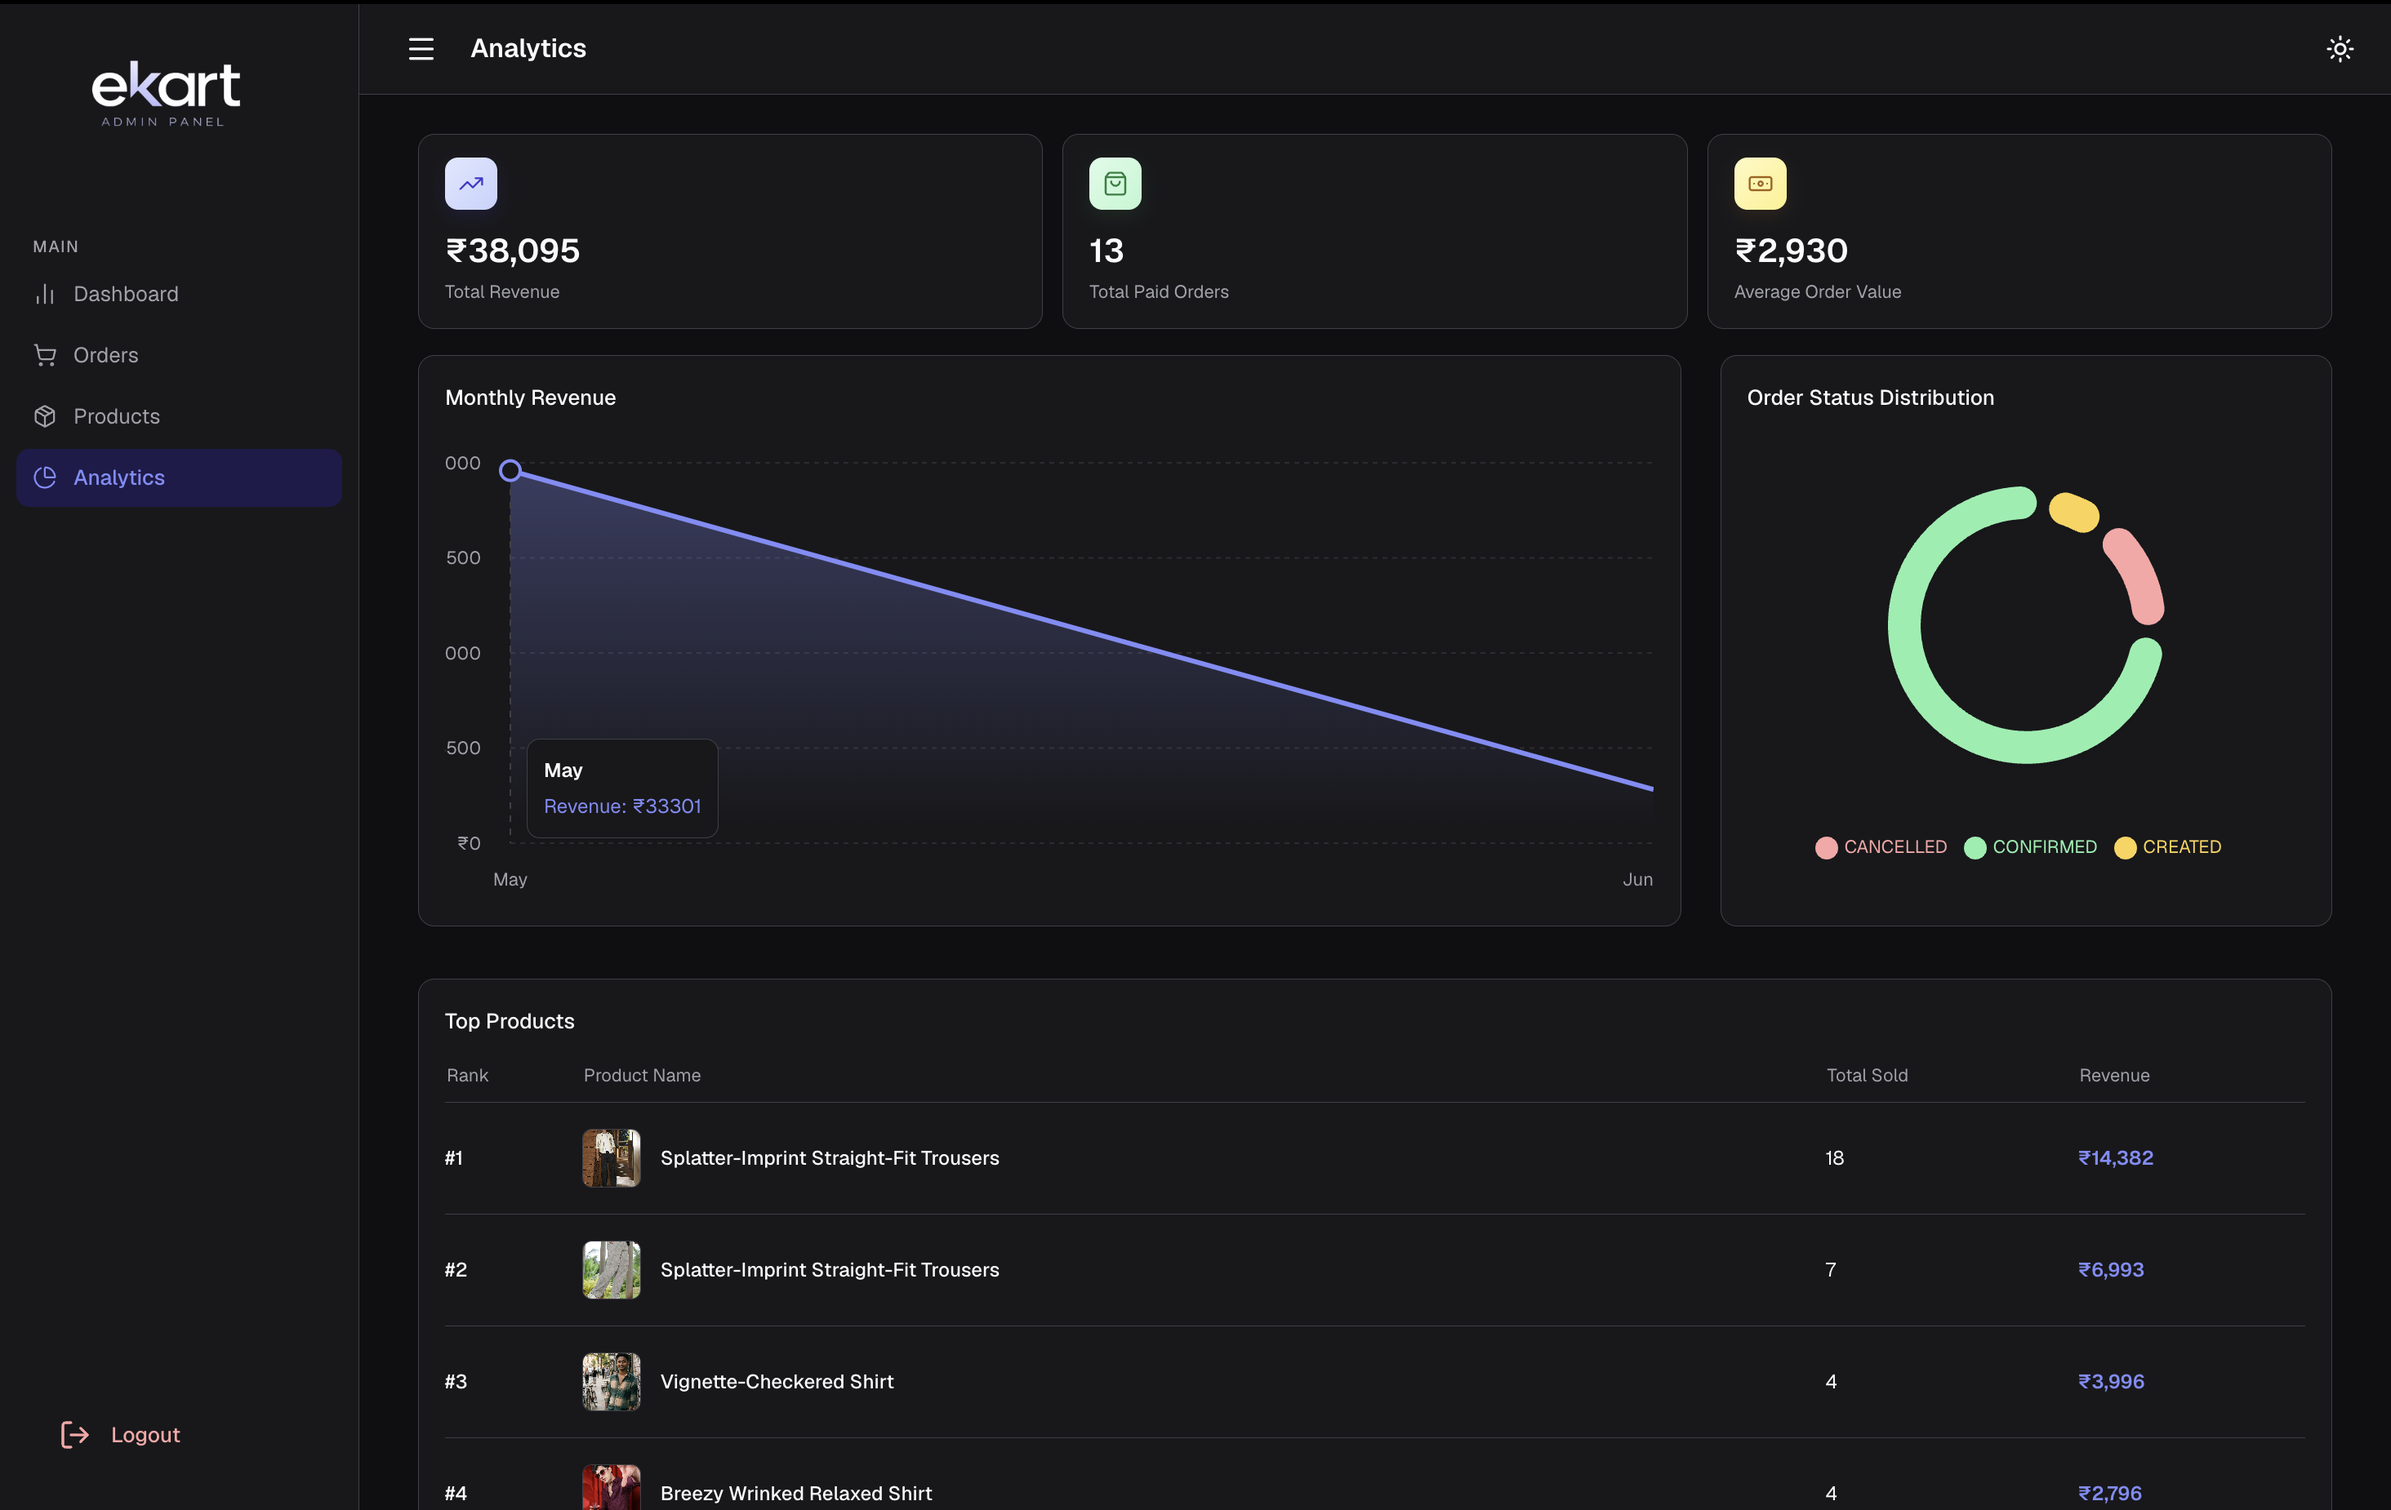
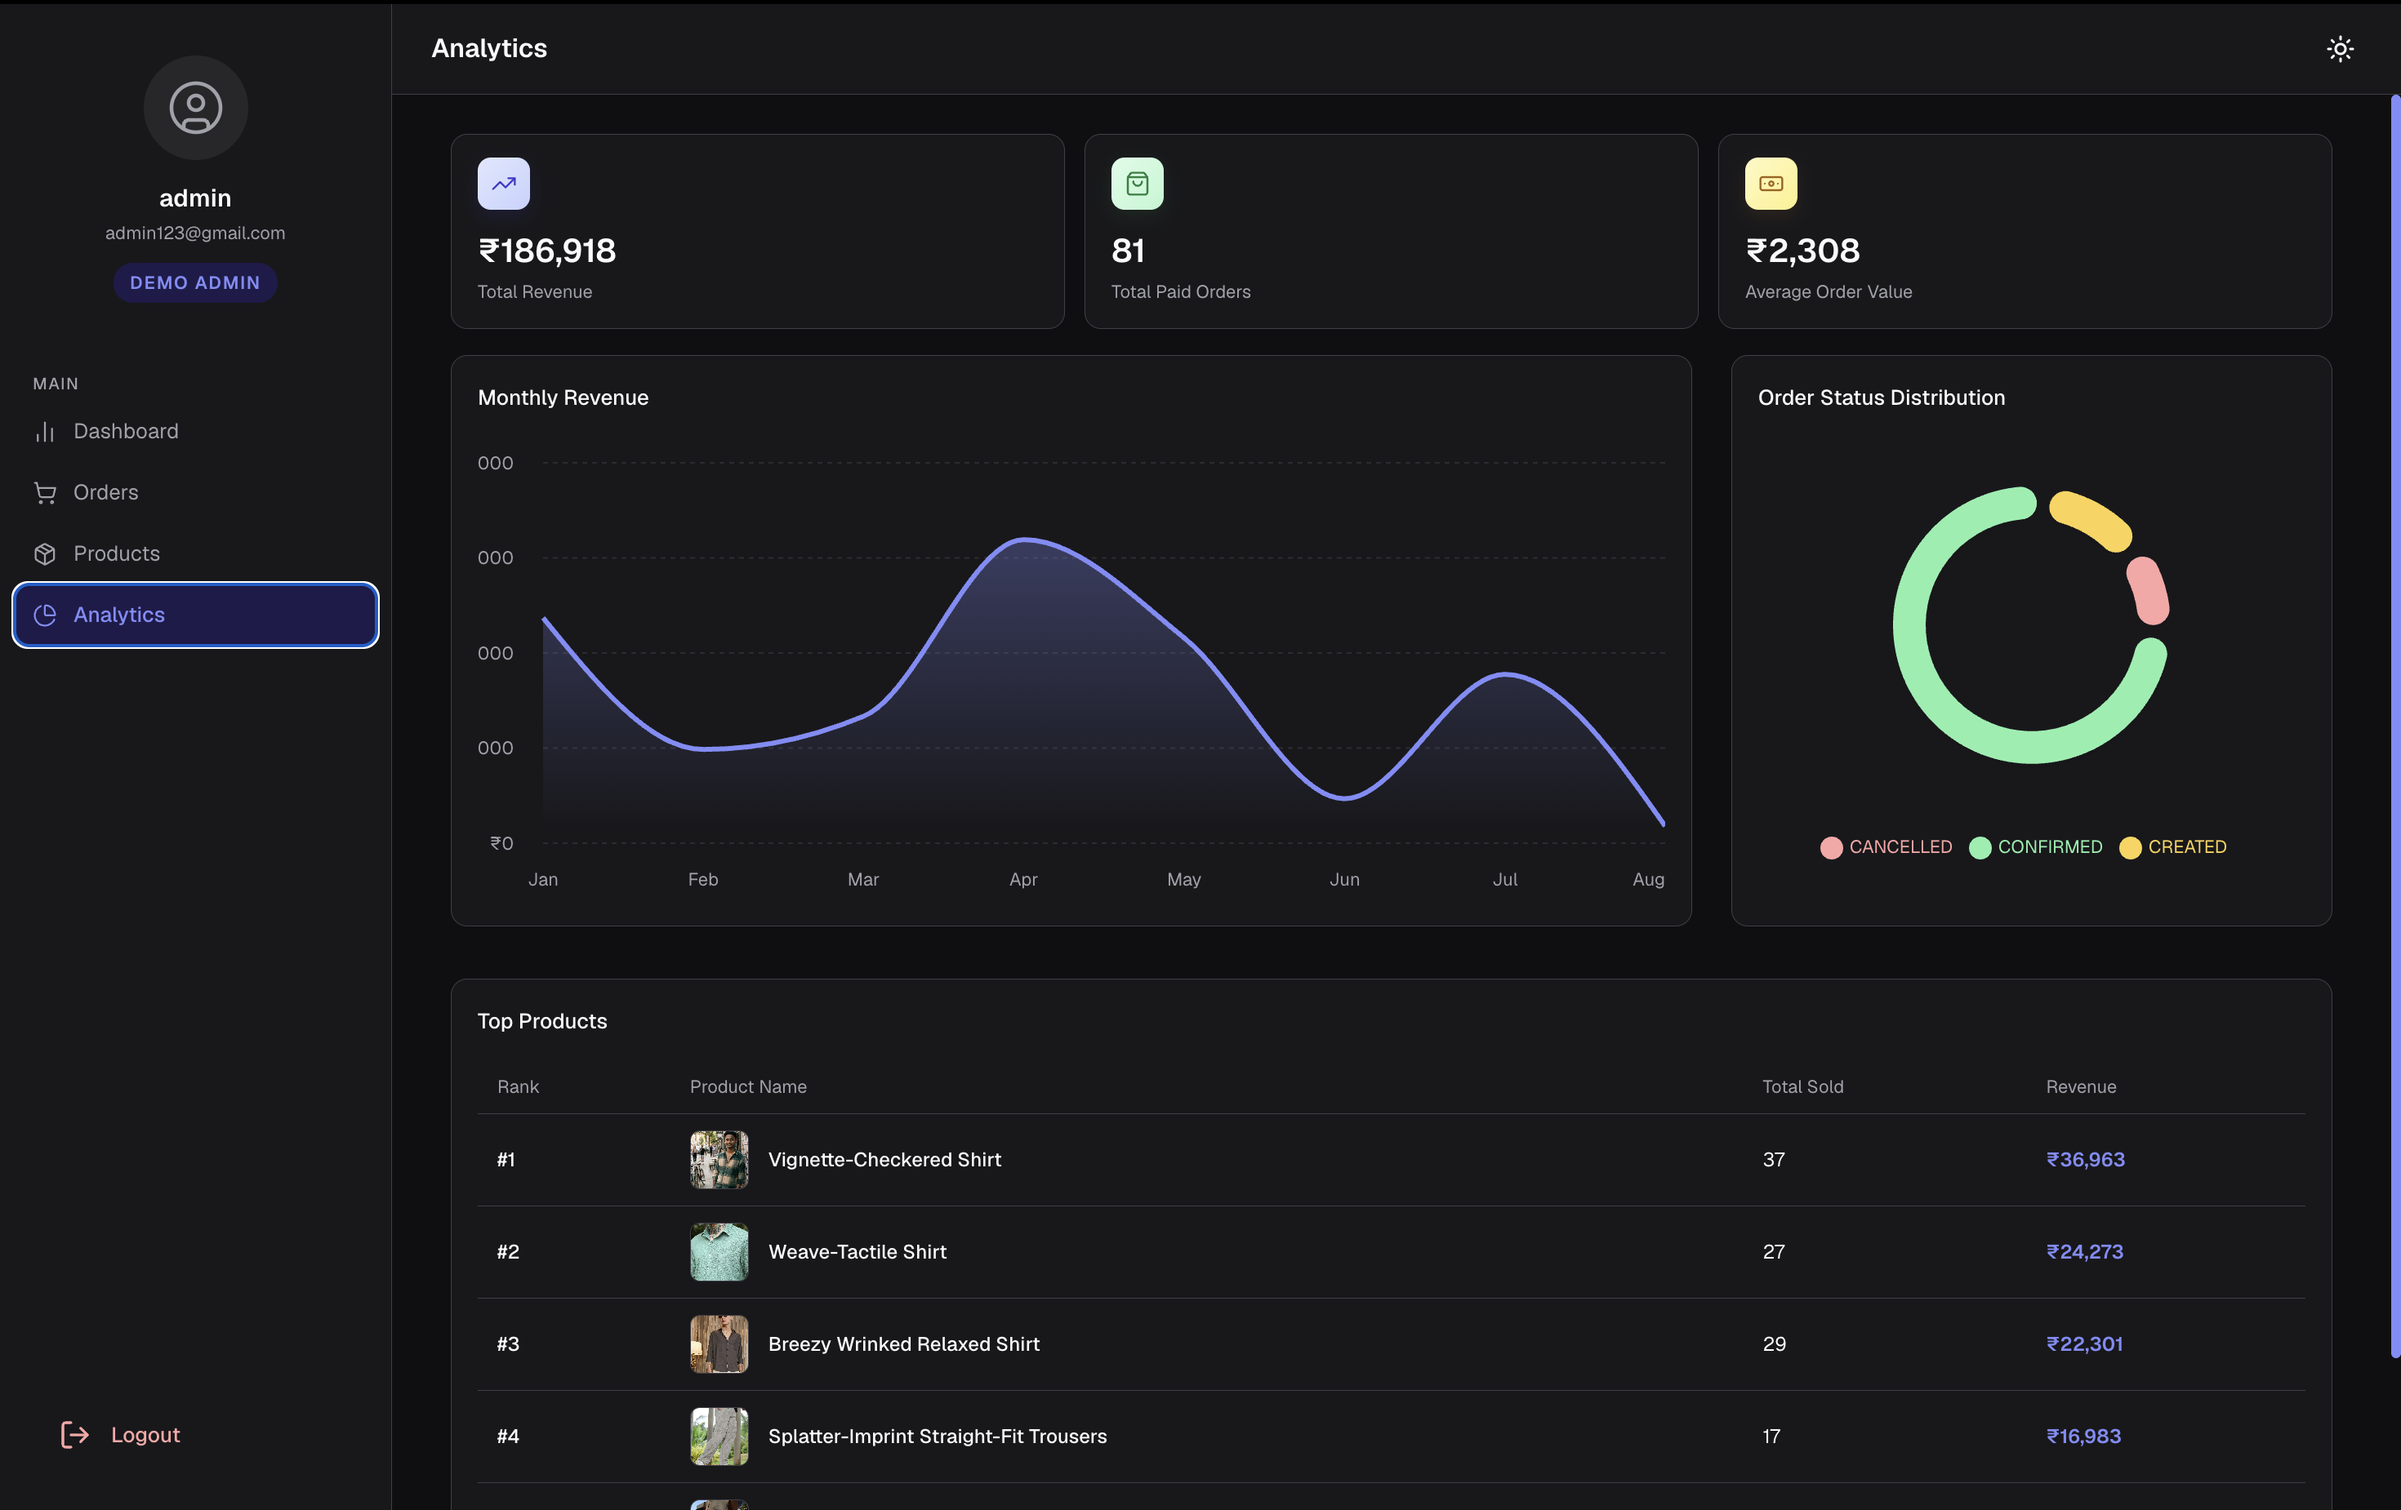
docs: update project information and screenshot assets
- updated about.html and index.html with the latest project information
- removed outdated webp screenshots for both admin and customer views
- added new png screenshots for the architecture, home, and orders pages
- replaced existing dashboard images to reflect the current UI state
- added an image modal viewer for larger screenshot inspection

diff --git a/about.html b/about.html
@@ -87,6 +87,33 @@
         </div>
       </section>
 
+      <!-- Architecture -->
+      <section class="section animate-on-scroll" id="architecture">
+        <h2 class="display-md mb-2xl">Architecture</h2>
+        <div class="mb-xl">
+          <img
+            src="assets/screenshots/architecture.png"
+            alt="Project Architecture"
+            style="
+              width: 100%;
+              border-radius: 12px;
+              border: 1px solid var(--border);
+              cursor: pointer;
+            "
+            onclick="openModal(this.src)"
+          />
+        </div>
+        <p class="body-lg mb-md">
+          The eKart Backend serves as the central application layer, receiving
+          requests from both the customer-facing frontend and the admin
+          dashboard. It persists application data in MongoDB, uses Redis for
+          caching and queue management, stores product images in Cloudinary, and
+          delegates all payment operations to a standalone Payment Orchestration
+          Engine. Background tasks such as email delivery are processed
+          asynchronously by a dedicated BullMQ worker.
+        </p>
+      </section>
+
       <!-- Project Links -->
       <section class="section animate-on-scroll">
         <h2 class="display-md mb-2xl">Project Links</h2>
@@ -146,7 +173,7 @@
         <div class="grid grid-2">
           <div class="screenshot-card">
             <img
-              src="assets/screenshots/customer-view/home.webp"
+              src="assets/screenshots/customer-view/home.png"
               alt="Home Page"
             />
             <div class="body-md-strong text-center">Home Page</div>
@@ -181,10 +208,10 @@
           </div>
           <div class="screenshot-card">
             <img
-              src="assets/screenshots/admin-view/dashboard.png"
-              alt="Admin Dashboard"
+              src="assets/screenshots/admin-view/orders.png"
+              alt="Order Management"
             />
-            <div class="body-md-strong text-center">Admin Dashboard</div>
+            <div class="body-md-strong text-center">Order Management</div>
           </div>
           <div class="screenshot-card">
             <img
@@ -210,14 +237,8 @@
           <div class="card-content animate-on-scroll">
             <h3 class="body-md-strong mb-sm">Frontend</h3>
             <div>
-              <span class="badge">React</span><span class="badge">Vite</span
-              ><span class="badge">React Router</span>
-            </div>
-          </div>
-          <div class="card-content animate-on-scroll">
-            <h3 class="body-md-strong mb-sm">State & Data</h3>
-            <div>
-              <span class="badge">Zustand</span
+              <span class="badge">React</span
+              ><span class="badge">Zustand</span
               ><span class="badge">TanStack Query</span>
             </div>
           </div>
@@ -225,36 +246,30 @@
             <h3 class="body-md-strong mb-sm">Backend</h3>
             <div>
               <span class="badge">Node.js</span
-              ><span class="badge">Express.js</span>
+              ><span class="badge">Express.js</span
+              ><span class="badge">BullMQ</span>
             </div>
           </div>
           <div class="card-content animate-on-scroll">
             <h3 class="body-md-strong mb-sm">Database</h3>
             <div>
               <span class="badge">MongoDB</span
-              ><span class="badge">Mongoose</span
               ><span class="badge">Redis</span>
-            </div>
-          </div>
-          <div class="card-content animate-on-scroll">
-            <h3 class="body-md-strong mb-sm">Security</h3>
-            <div>
-              <span class="badge">JWT</span><span class="badge">bcrypt</span>
             </div>
           </div>
           <div class="card-content animate-on-scroll">
             <h3 class="body-md-strong mb-sm">Integrations</h3>
             <div>
-              <span class="badge">Razorpay</span
-              ><span class="badge">Cloudinary</span
-              ><span class="badge">Nodemailer</span>
+              <span class="badge">Payment Orchestration Engine</span
+              ><span class="badge">Email Worker Service</span
+              ><span class="badge">Cloudinary</span>
             </div>
           </div>
           <div class="card-content animate-on-scroll">
             <h3 class="body-md-strong mb-sm">Tools</h3>
             <div>
               <span class="badge">Docker</span
-              ><span class="badge">OpenAPI/Scalar</span>
+              ><span class="badge">OpenAPI / Scalar</span>
             </div>
           </div>
         </div>
@@ -287,7 +302,8 @@
             <div class="list-item">
               <span class="bullet">•</span
               ><span class="body-md"
-                >Checkout flow integrated with Razorpay payment gateway</span
+                >Checkout flow integrated with standalone Payment Orchestration
+                Engine</span
               >
             </div>
             <div class="list-item">
@@ -299,8 +315,8 @@
             <div class="list-item">
               <span class="bullet">•</span
               ><span class="body-md"
-                >Email notifications via Nodemailer for order
-                confirmations</span
+                >Email notifications via Nodemailer for order confirmations,
+                processed asynchronously through a BullMQ messaging queue</span
               >
             </div>
           </div>
@@ -350,8 +366,8 @@
             <div class="list-item">
               <span class="bullet">•</span
               ><span class="body-md"
-                >Server-side Razorpay signature verification (no
-                client-trust)</span
+                >Secure webhook verification with Payment Orchestration Engine
+                (no client-trust)</span
               >
             </div>
             <div class="list-item">
@@ -386,6 +402,35 @@
               >
             </div>
           </div>
+          <div class="card-content animate-on-scroll">
+            <h3 class="body-md-strong mb-md">Backend & Infrastructure</h3>
+            <div class="list-item">
+              <span class="bullet">•</span
+              ><span class="body-md">Modular domain-driven architecture</span>
+            </div>
+            <div class="list-item">
+              <span class="bullet">•</span
+              ><span class="body-md"
+                >Asynchronous email processing with BullMQ workers</span
+              >
+            </div>
+            <div class="list-item">
+              <span class="bullet">•</span
+              ><span class="body-md"
+                >Redis-powered caching and API rate limiting</span
+              >
+            </div>
+            <div class="list-item">
+              <span class="bullet">•</span
+              ><span class="body-md">Dockerized deployment with Compose</span>
+            </div>
+            <div class="list-item">
+              <span class="bullet">•</span
+              ><span class="body-md"
+                >Interactive API documentation via OpenAPI/Swagger</span
+              >
+            </div>
+          </div>
         </div>
       </section>
     </main>
@@ -405,6 +450,22 @@
         </div>
       </div>
     </footer>
+
+    <!-- Image Modal -->
+    <div id="imageModal" class="image-modal" onclick="closeModal()">
+      <span class="image-modal-close" onclick="closeModal()">&times;</span>
+      <img class="image-modal-content" id="modalImage">
+    </div>
+
+    <script>
+      function openModal(src) {
+        document.getElementById("imageModal").classList.add("show");
+        document.getElementById("modalImage").src = src;
+      }
+      function closeModal() {
+        document.getElementById("imageModal").classList.remove("show");
+      }
+    </script>
     <script src="./assets/animations.js"></script>
   </body>
 </html>

diff --git a/assets/styles.css b/assets/styles.css
@@ -343,3 +343,58 @@ footer {
   opacity: 1;
   transform: translateY(0);
 }
+
+/* Image Modal */
+.image-modal {
+  display: none;
+  position: fixed;
+  z-index: 1000;
+  left: 0;
+  top: 0;
+  width: 100%;
+  height: 100%;
+  overflow: auto;
+  background-color: rgba(0, 0, 0, 0.85);
+  align-items: center;
+  justify-content: center;
+  backdrop-filter: blur(5px);
+  -webkit-backdrop-filter: blur(5px);
+}
+
+.image-modal.show {
+  display: flex;
+}
+
+.image-modal-content {
+  margin: auto;
+  display: block;
+  max-width: 90%;
+  max-height: 90%;
+  border-radius: var(--rounded-md);
+  box-shadow: 0 4px 24px rgba(0,0,0,0.5);
+  animation: zoomIn 0.3s ease;
+}
+
+@keyframes zoomIn {
+  from {transform: scale(0.95); opacity: 0;}
+  to {transform: scale(1); opacity: 1;}
+}
+
+.image-modal-close {
+  position: absolute;
+  top: var(--spacing-xl);
+  right: var(--spacing-xl);
+  color: #fff;
+  font-size: 40px;
+  font-weight: bold;
+  transition: 0.3s;
+  cursor: pointer;
+  z-index: 1001;
+}
+
+.image-modal-close:hover,
+.image-modal-close:focus {
+  color: var(--mute);
+  text-decoration: none;
+  cursor: pointer;
+}

diff --git a/index.html b/index.html
@@ -77,6 +77,10 @@
           >
         </div>
         
+        <div class="mb-xl text-center body-sm" style="color: var(--mute);">
+          <i class="bi bi-info-circle" style="margin-right: 4px;"></i> The customer store and admin panel will automatically log you in with a demo account.
+        </div>
+        
         <div class="flex gap-md mb-3xl" style="flex-wrap: wrap; justify-content: center;">
           <a
             href="https://github.com/sn0914r/ekart-frontend"
